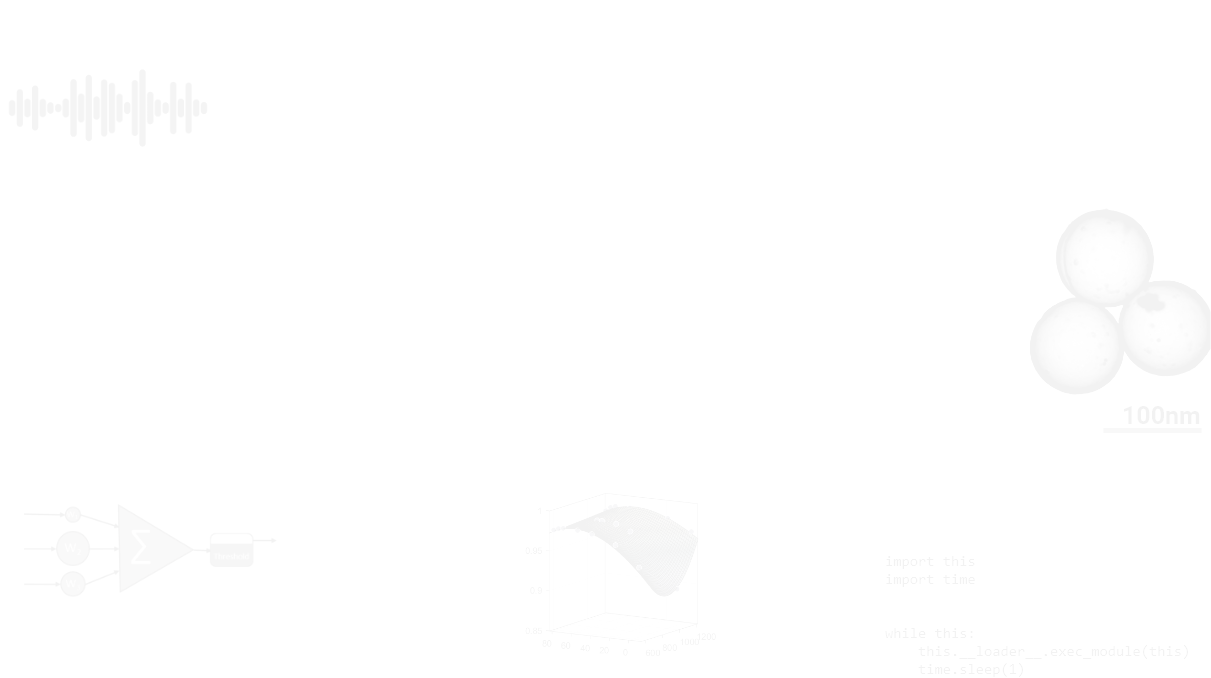
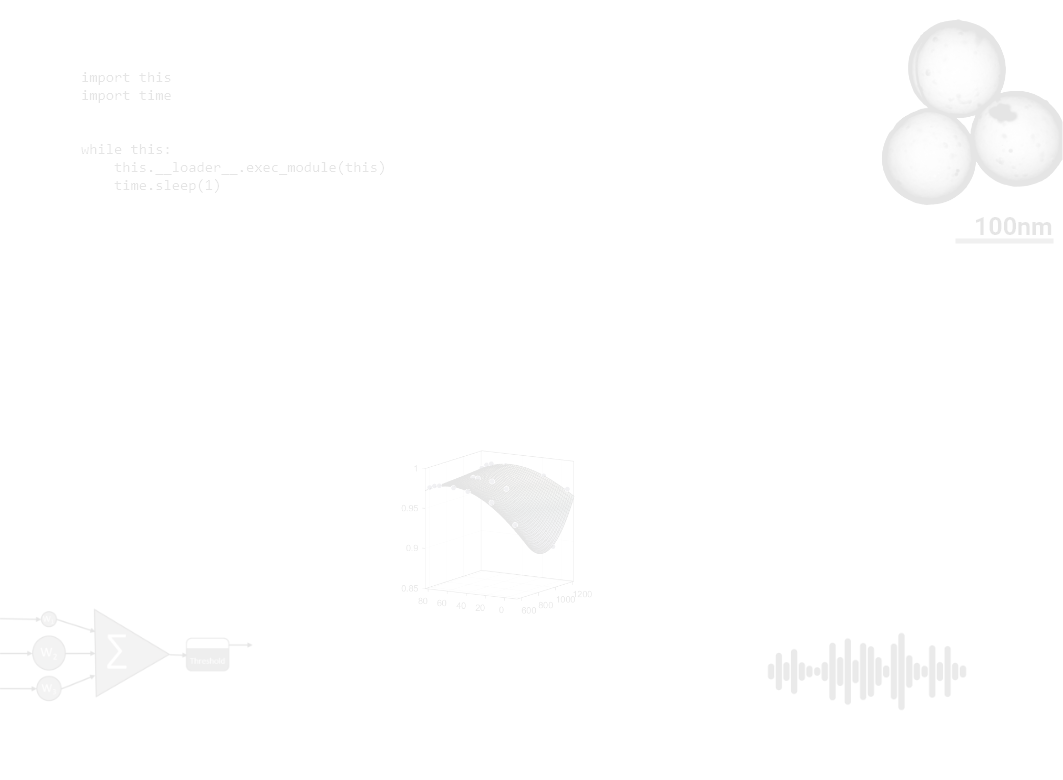
Add fading background.

diff --git a/index.html b/index.html
@@ -3,9 +3,9 @@
 <head>
 <title>Adrian Garcia Badaracco - Portfolio</title>
     <link rel="stylesheet" href="styles.css" type="text/css">
-    <link rel="stylesheet" href="normalize.css" type="text/css">
 </head>
 <body>
+    <div id="background"></div>
     <a href="#nav" onclick="topFunction()" id="upButton" class="upButton" title="Go to top">^</a>
     <div class="container">
         <div class="navbar" id="nav">
@@ -66,7 +66,7 @@
                                     <figcaption class="caption">Speech recognition to solve a $37Bn problem.</figcaption>
                                 </figure>
                             </a>
-                            <a href="#nav" onclick="recursion()">
+                            <a href="#nav" onclick="recursionJoke()">
                                 <figure class="gallery-fig">
                                     <img src="images/Code/screenshot.png">
                                     <figcaption class="caption">This website: made in HTML5 & CSS using flexbox!</figcaption>
@@ -160,35 +160,6 @@
                 </div>
         </div>
     </div>
-    <script>
-    function recursion() {
-        old_trans = document.getElementById("upButton").style.transition;
-        document.getElementById("upButton").style.transition = "none";
-        document.getElementById("upButton").style.visibility = "hidden";
-        alert("Recursion error: can't link back to self!");
-        document.getElementById("upButton").style.transition = old_trans;
-    }
-
-    // When the user scrolls down 20px from the top of the document, show the button
-    window.onscroll = function() {scrollFunction()};
-
-    function scrollFunction() {
-        if (document.body.scrollTop > 500 || document.documentElement.scrollTop > 500) {
-        document.getElementById("upButton").style.visibility = "visible";
-        } else {
-        document.getElementById("upButton").style.visibility = "hidden";
-        }
-    }
-
-    // When the user clicks on the button, scroll to the top of the document
-    function topFunction() {
-        old_trans = document.getElementById("upButton").style.transition;
-        document.getElementById("upButton").style.transition = "none";
-        document.getElementById("upButton").style.visibility = "hidden";
-        document.body.scrollTop = 0;
-        document.documentElement.scrollTop = 0;
-        document.getElementById("upButton").style.transition = old_trans;
-    }
-    </script>
+    <script src="scripts.js"></script>
 </body>
 </html>

diff --git a/scripts.js b/scripts.js
@@ -1,0 +1,31 @@
+function recursionJoke() {
+    old_trans = document.getElementById("upButton").style.transition;
+    document.getElementById("upButton").style.transition = "none";
+    document.getElementById("upButton").style.visibility = "hidden";
+    alert("Recursion error: can't link back to self!");
+    document.getElementById("upButton").style.transition = old_trans;
+}
+
+// When the user scrolls down 20px from the top of the document, show the button
+window.onscroll = function() {scrollFunction()};
+
+function scrollFunction() {
+    if (document.body.scrollTop > 500 || document.documentElement.scrollTop > 500) {
+    document.getElementById("upButton").style.visibility = "visible";
+    } else {
+    document.getElementById("upButton").style.visibility = "hidden";
+    }
+    fade_at = 800;  // Scroll point at which background dissapears, in px
+    background_opacity = Math.max((fade_at - Math.max(document.body.scrollTop, document.documentElement.scrollTop)) / fade_at, 0);
+    document.getElementById("background").style.opacity = background_opacity
+}
+
+// When the user clicks on the button, scroll to the top of the document
+function topFunction() {
+    old_trans = document.getElementById("upButton").style.transition;
+    document.getElementById("upButton").style.transition = "none";
+    document.getElementById("upButton").style.visibility = "hidden";
+    document.body.scrollTop = 0;
+    document.documentElement.scrollTop = 0;
+    document.getElementById("upButton").style.transition = old_trans;
+}

diff --git a/styles.css b/styles.css
@@ -2,10 +2,23 @@
 
 body {
     font-family: 'Roboto', sans-serif;
-    background: url(images/background.png);
+    /*background: url(images/background.png);
     background-size:     cover;
     background-repeat:   no-repeat;
     background-position: center top;
+    background-attachment: fixed;*/
+}
+#background {
+    position: fixed;
+    top: 0;
+    left: 0;
+    width: 100%;
+    height: 100%;
+    background: url(images/background.png);
+    background-repeat: no-repeat;
+    background-attachment: fixed;
+    background-size: 100%;
+    opacity: 1;
 }
 body h1 {
     font-family: 'Poppins', sans-serif;
@@ -17,6 +30,7 @@ body p {
     grid-area: navbar;
     background: #FF6F00;
     justify-content: center;
+    z-index: 99;
 }
 .action-btn {
     display: inline-block;
@@ -31,20 +45,23 @@ body p {
 }
 .upButton {
     visibility: hidden;
-    display: inline-block;
-    text-decoration: none;
-    color: white;
-    font-weight: bold;
     background: #FF6F00;
-    padding: 0.1em 0.5em;
     border-radius: 50%;
     margin: 0 0;
     transition: 0.3s;
     position: fixed;
     top: 20px;
     left: 30px;
-    z-index: 99;
-    font-size: 3em;
+    z-index: 98;
+    height: 75px;
+    width: 75px;
+    display:block;
+    line-height: 1em;
+    text-align: center;
+    text-decoration: none;
+    font-size: 7em;
+    font-weight: bold;
+    color: white;
   }
 .upButton:hover {
     box-shadow: 0 10px 50px rgba(188, 197, 216, 1)
